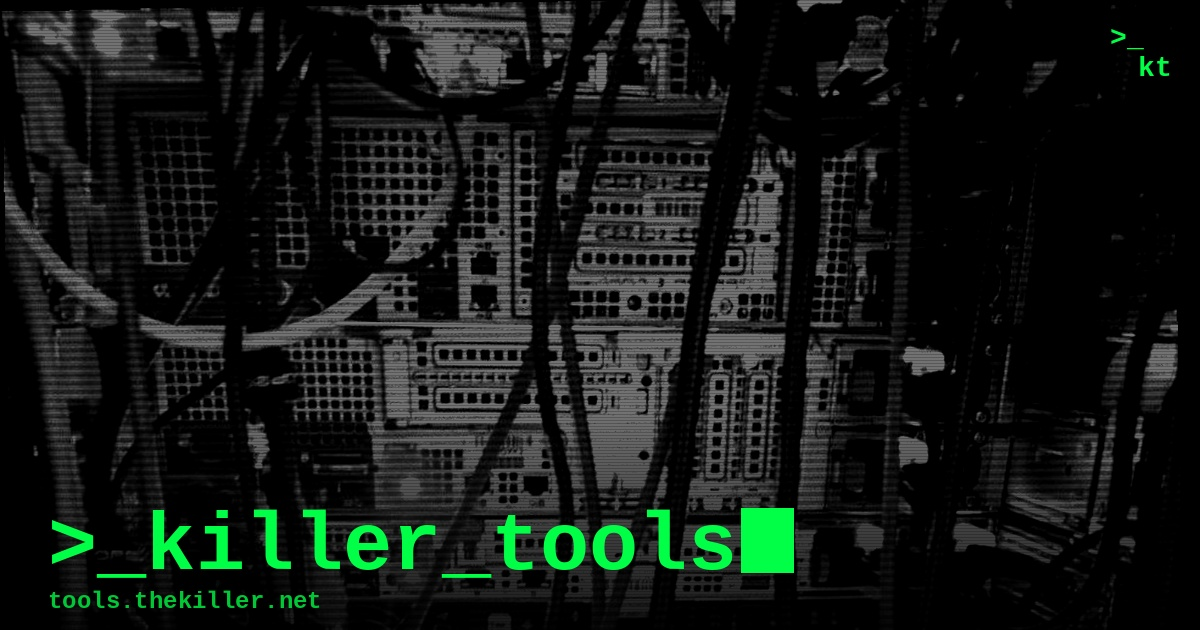
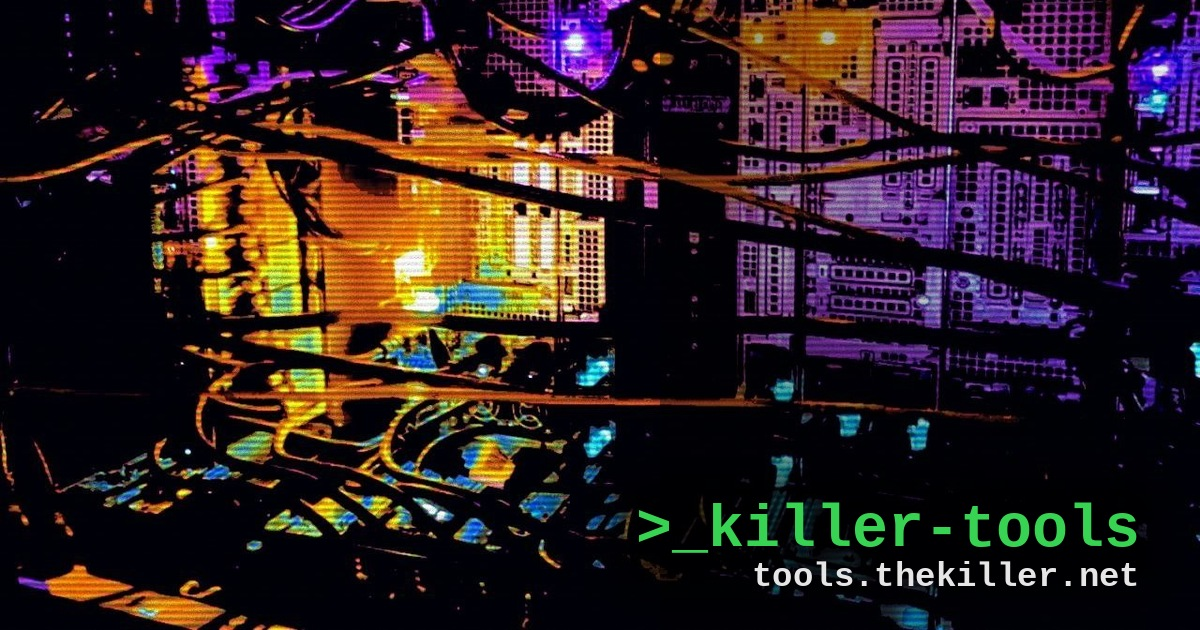
theme and image changes

diff --git a/public/killer-tools-overrides.css b/public/killer-tools-overrides.css
@@ -50,13 +50,15 @@ a[href*="twitter.com"],
 
 .sider-logo {
   display: block;
-  height: 100px;
+  height: 38px;
   padding-left: 0px;
   cursor: pointer;
+  margin-top: 30px;
+  margin-bottom: 10px;
 }
 
 .sider-logo img {
-  height: 100px;
+  height: 38px;
   object-fit: contain;
   object-position: top;
 }
@@ -80,7 +82,7 @@ a.c-button.circle:not([aria-label="Toggle menu"]),
 }
 
 #app .n-layout-sider .n-scrollbar-content > div:first-child {
-  margin-top: -55px;
+  margin-top: -100px;
 }
 
 div:first-child > .menu-wrapper .n-menu-item-content {

diff --git a/src/layouts/base.layout.vue b/src/layouts/base.layout.vue
@@ -34,7 +34,7 @@ const tools = computed<ToolCategory[]>(() => [
     <template #sider>
       <div class="sider-content">
         <RouterLink to="/" class="sider-logo">
-          <img src="/sidebar-290x100.png" alt="killer-tools">
+          <img src="/kt-logo.png" alt="killer-tools">
         </RouterLink>
 
         <div v-if="styleStore.isSmallScreen" flex flex-col items-center>
